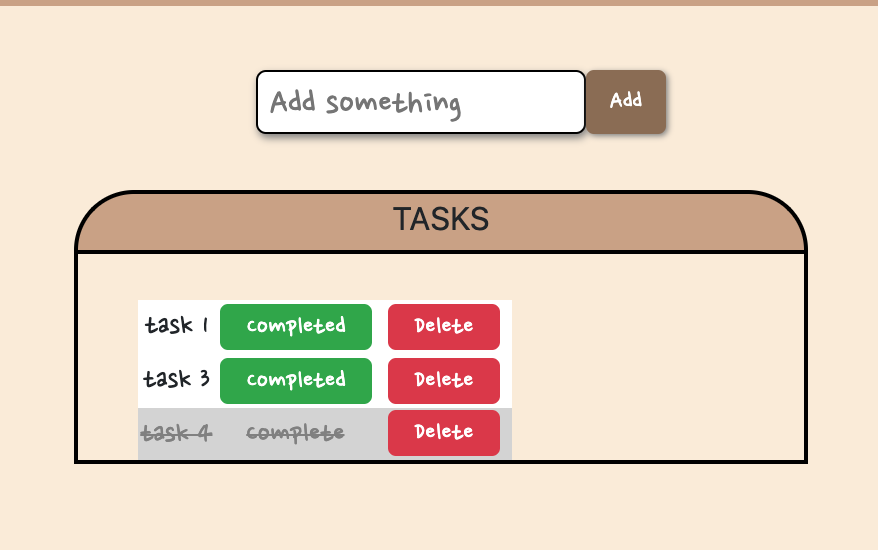
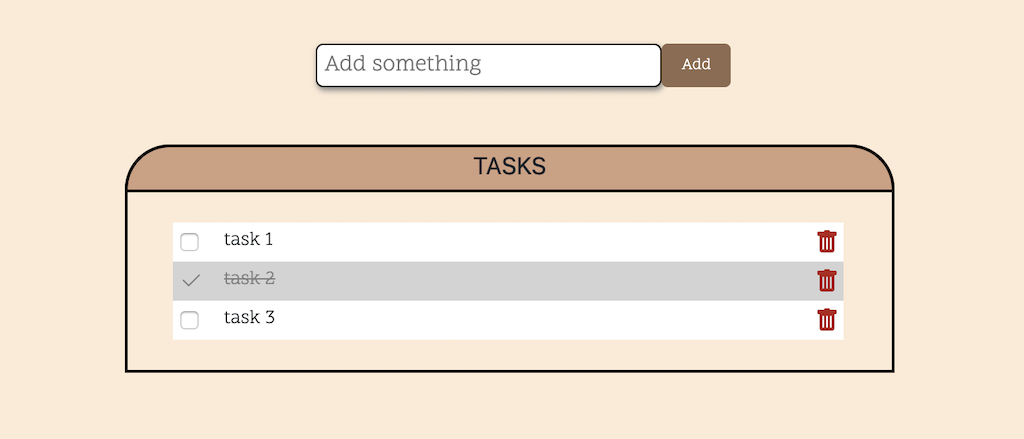
change screen shot picture

diff --git a/server/public/scripts/client.js b/server/public/scripts/client.js
@@ -68,7 +68,7 @@ function renderToDOM(tasksArray) {
         el.append(row); //append tasks
 
         //delete icon
-        row.append(`<td><svg class="bi bi-trash-fill" id = "deleteBtn" data-id = ${task.id} width="1em" height="1em" viewBox="0 0 16 16" fill="red" xmlns="http://www.w3.org/2000/svg">
+        row.append(`<td><svg class="bi bi-trash-fill" id = "deleteBtn" data-id = ${task.id} width="1em" height="1em" viewBox="0 0 16 16" fill="#a72f1d" xmlns="http://www.w3.org/2000/svg">
         <path fill-rule="evenodd" d="M2.5 1a1 1 0 00-1 1v1a1 1 0 001 1H3v9a2 2 0 002 2h6a2 2 0 002-2V4h.5a1 1 0 001-1V2a1 1 0 00-1-1H10a1 1 0 00-1-1H7a1 1 0 00-1 1H2.5zm3 4a.5.5 0 01.5.5v7a.5.5 0 01-1 0v-7a.5.5 0 01.5-.5zM8 5a.5.5 0 01.5.5v7a.5.5 0 01-1 0v-7A.5.5 0 018 5zm3 .5a.5.5 0 00-1 0v7a.5.5 0 001 0v-7z" clip-rule="evenodd"/>
       </svg></td>`)
     }

diff --git a/server/public/styles/style.css b/server/public/styles/style.css
@@ -8,7 +8,7 @@ h1{
    font-size: 400%;
    background-color: rgba(182, 132, 98, 0.719);
    /* text-decoration: overline; */
-   text-decoration: underline ;
+   /* text-decoration: underline ; */
 }
 
 
@@ -104,6 +104,7 @@ h1{
    text-decoration: line-through;
    background-color: lightgray;
    color: gray;
+   padding-left: 40px;
 }
 
 
